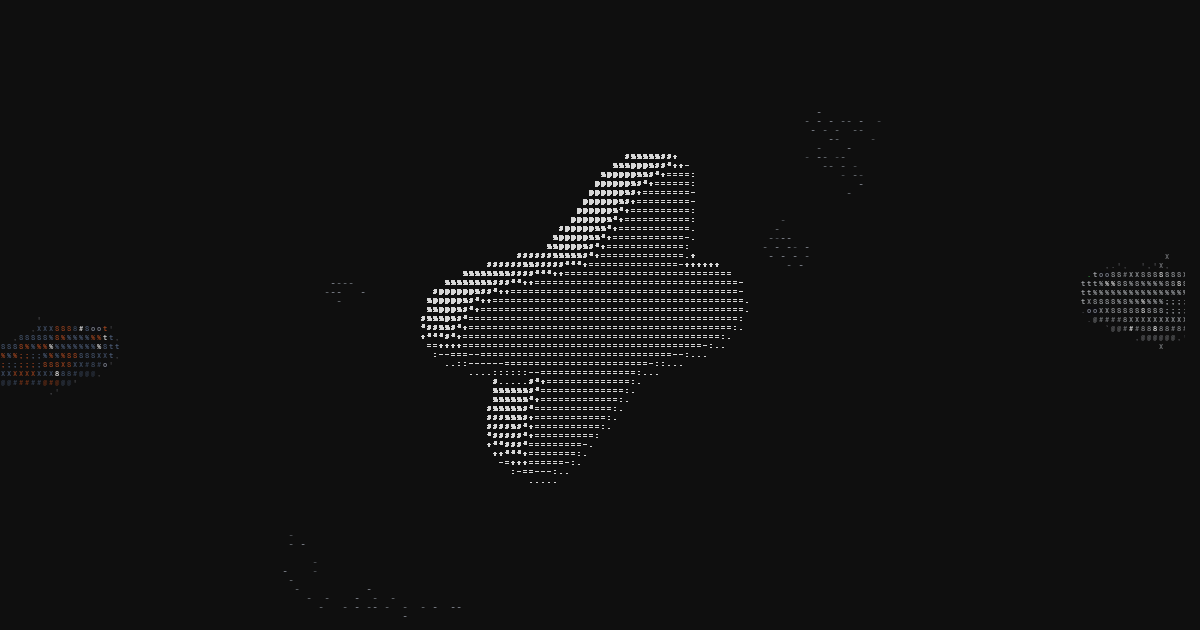
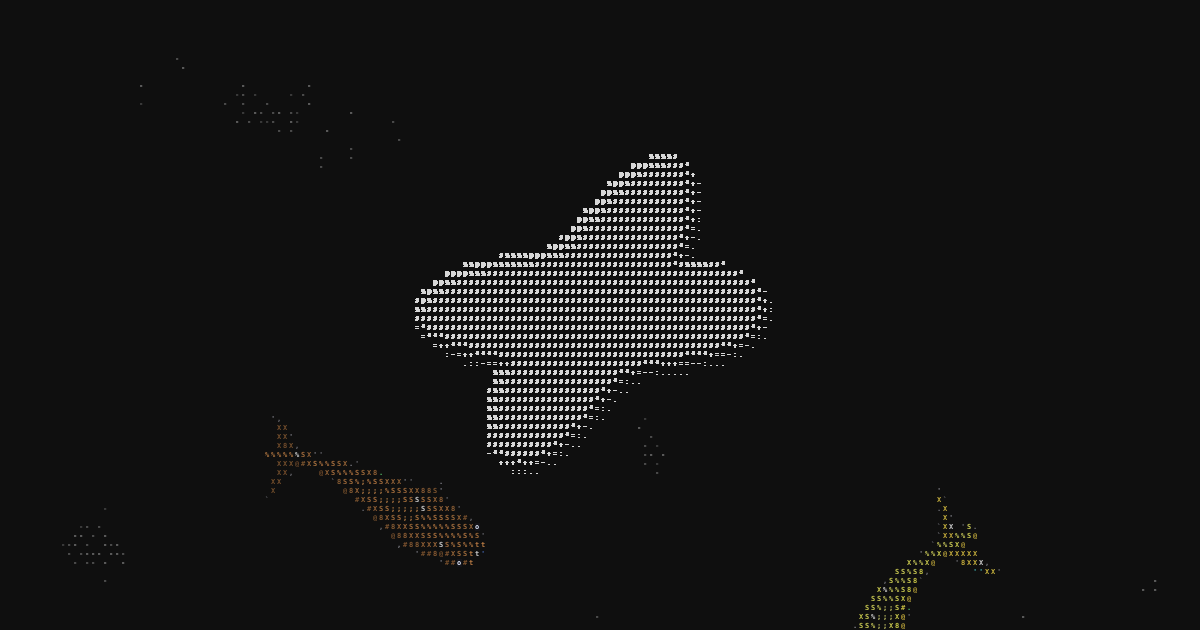
feat(web): share card with the mark facing front and brighter koi (#138)

diff --git a/apps/web/scripts/og-image.py b/apps/web/scripts/og-image.py
@@ -9,7 +9,11 @@
 The card is the home itself at 1200x630 in dark mode: the mark in
 characters over the pond, without the corners. The mark is drawn by three.js
 on the client, so the card is a screenshot of a running site rather than a
-next/og render.
+next/og render. Reduced motion holds the mark facing front, and the pond is
+brightened so the fish read at thumbnail size.
+
+The koi start in random places, so look at the card before you commit it,
+and run it again if a koi is off the edge or behind the mark.
 
 Requirements
   uv            `bun run og` runs this file with `uv run`.
@@ -32,8 +36,13 @@ from playwright.sync_api import sync_playwright
 ROOT = Path(__file__).resolve().parent.parent
 OUT = ROOT / "app" / "opengraph-image.png"
 SIZE = {"width": 1200, "height": 630}
-# The mark decodes in over about 2 seconds after three.js loads.
-SETTLE_MS = 5000
+# three.js and the pond load after the page.
+SETTLE_MS = 4000
+# The pond is dimmed to stay a backdrop on the site; the card wants it bright.
+STYLE = (
+    "header, footer { visibility: hidden }"
+    " canvas.pointer-events-none { filter: brightness(1.8) }"
+)
 
 
 def main() -> None:
@@ -46,11 +55,11 @@ def main() -> None:
             executable_path=os.environ.get("PREVIEWS_CHROMIUM") or None,
             args=["--use-angle=swiftshader", "--enable-unsafe-swiftshader"],
         )
-        page = browser.new_page(viewport=SIZE, color_scheme="dark")
-        page.goto(args.url, wait_until="load")
-        page.add_style_tag(
-            content="header, footer { visibility: hidden }"
+        page = browser.new_page(
+            viewport=SIZE, color_scheme="dark", reduced_motion="reduce"
         )
+        page.goto(args.url, wait_until="load")
+        page.add_style_tag(content=STYLE)
         page.wait_for_timeout(SETTLE_MS)
         page.screenshot(path=OUT)
         browser.close()
